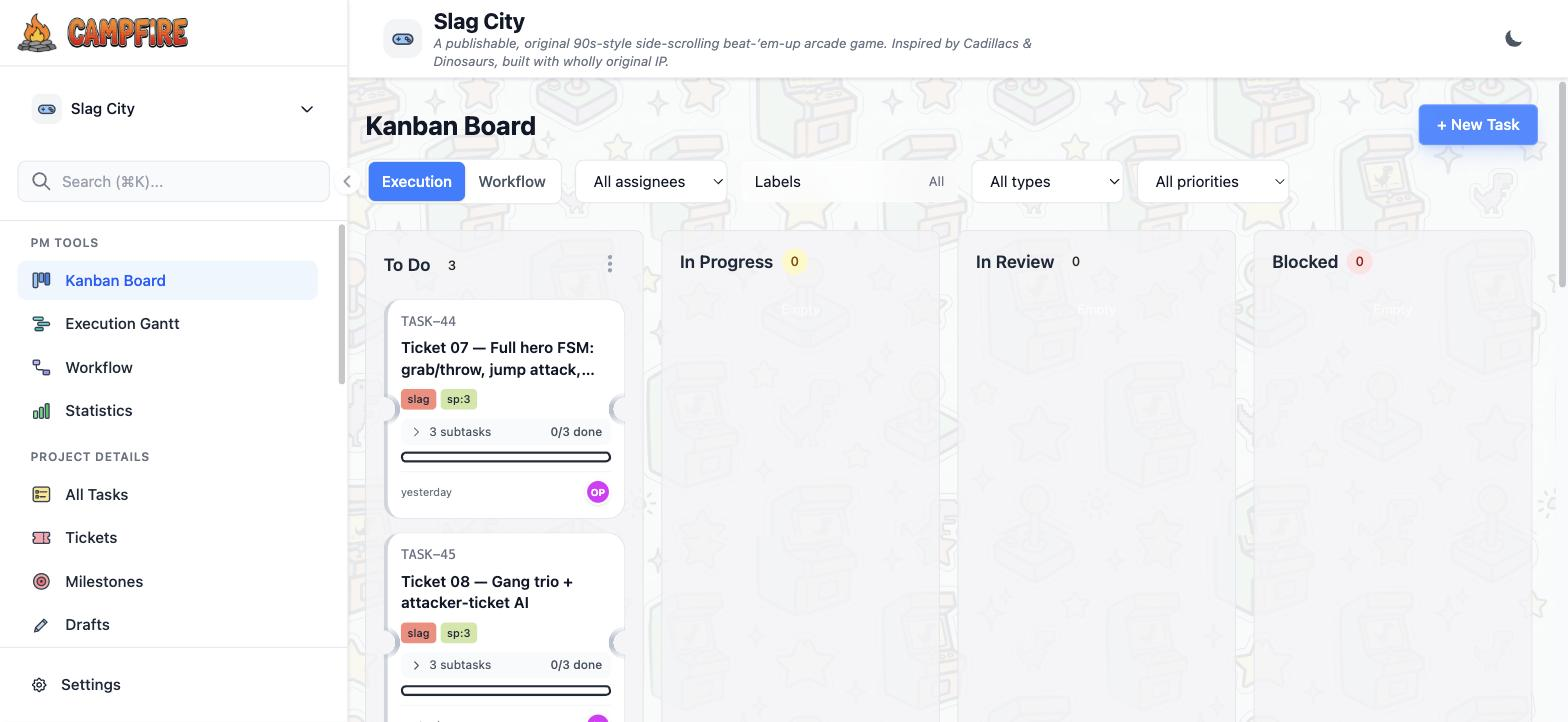
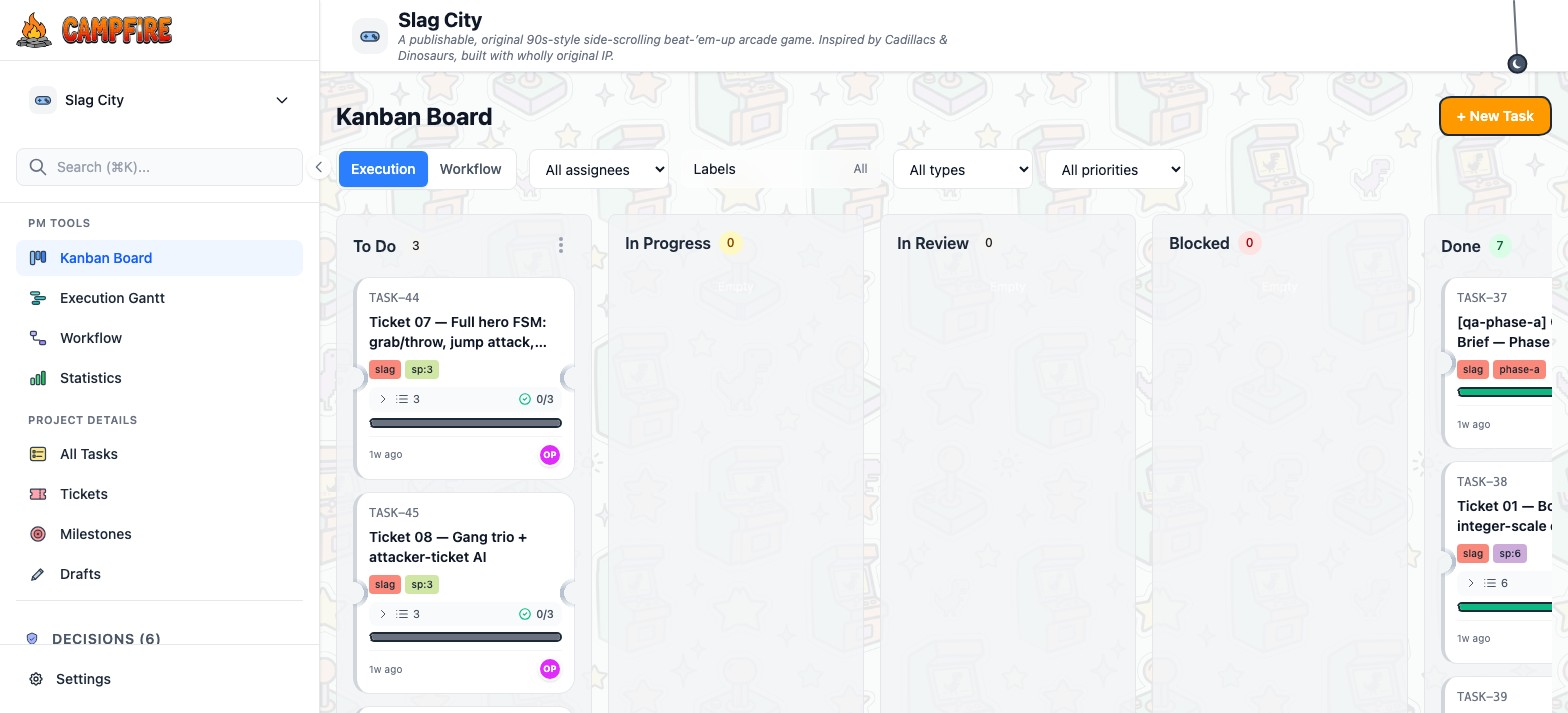
Refresh README screenshots for the current UI
Recapture the Kanban, Workflow, Execution Gantt and Statistics shots against
the current hand-drawn UI (now also showing the pull-cord theme toggle in the
top bar). Update the Workflow caption to match its hours-timeline layout.

Claude-Session: https://claude.ai/code/session_01Ror5SYJcTrvA4urV8ocDX4

diff --git a/README.md b/README.md
@@ -43,7 +43,7 @@ every project at once.
 ### Kanban board — hand-drawn ticket cards, Execution/Workflow toggle
 ![Campfire Board — Kanban board](./docs/screenshots/kanban.jpg)
 
-### Workflow view — the 10 build-workflow stages as cards
+### Workflow view — the 10 build-workflow stages on an hours timeline
 ![Campfire Board — Workflow view](./docs/screenshots/workflow.jpg)
 
 ### Execution Gantt — hours-axis timeline with dependencies
